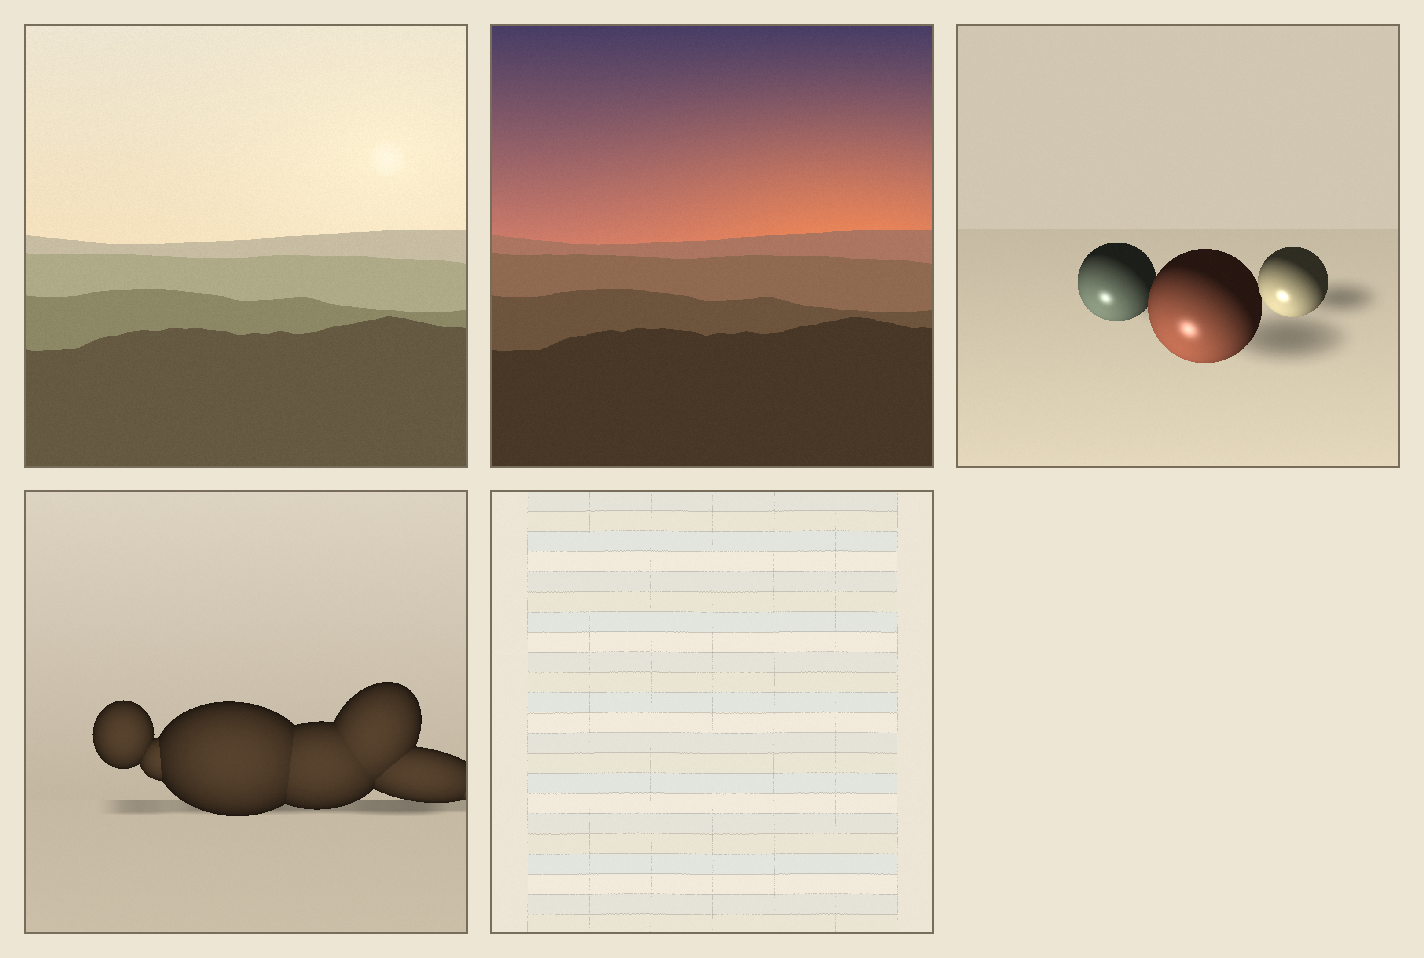
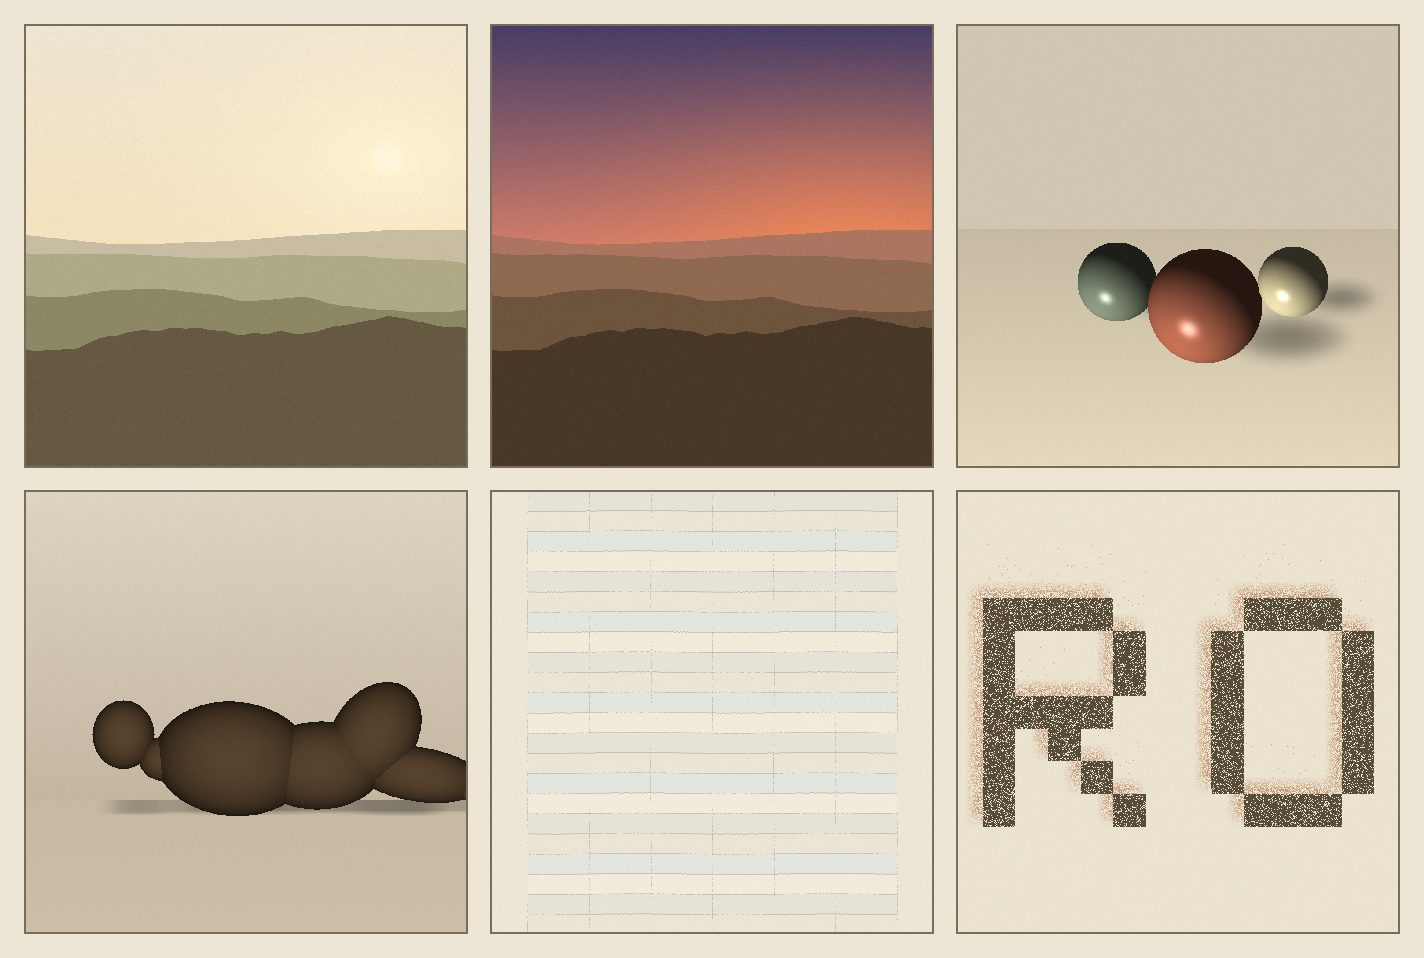
Refresh contact sheet to include GROW (fills the 6th cell)

Changed region(s): [[0.8343, 0.6054, 0.9888, 0.8779], [0.6798, 0.6054, 0.8034, 0.8779]]

diff --git a/portfolio/2026-06-28-landscapes-growth/src/gallery2.py b/portfolio/2026-06-28-landscapes-growth/src/gallery2.py
@@ -5,7 +5,7 @@ import struct, zlib
 import numpy as np
 from pnglib import write_png
 
-PIECES = ["landscape", "frame_dusk", "stilllife", "figure2", "martin"]
+PIECES = ["landscape", "frame_dusk", "stilllife", "figure2", "martin", "type_grow"]
 T, PAD = 440, 26
 COLS, ROWS = 3, 2
 BG = np.array([238, 230, 213], np.uint8)   # warm paper